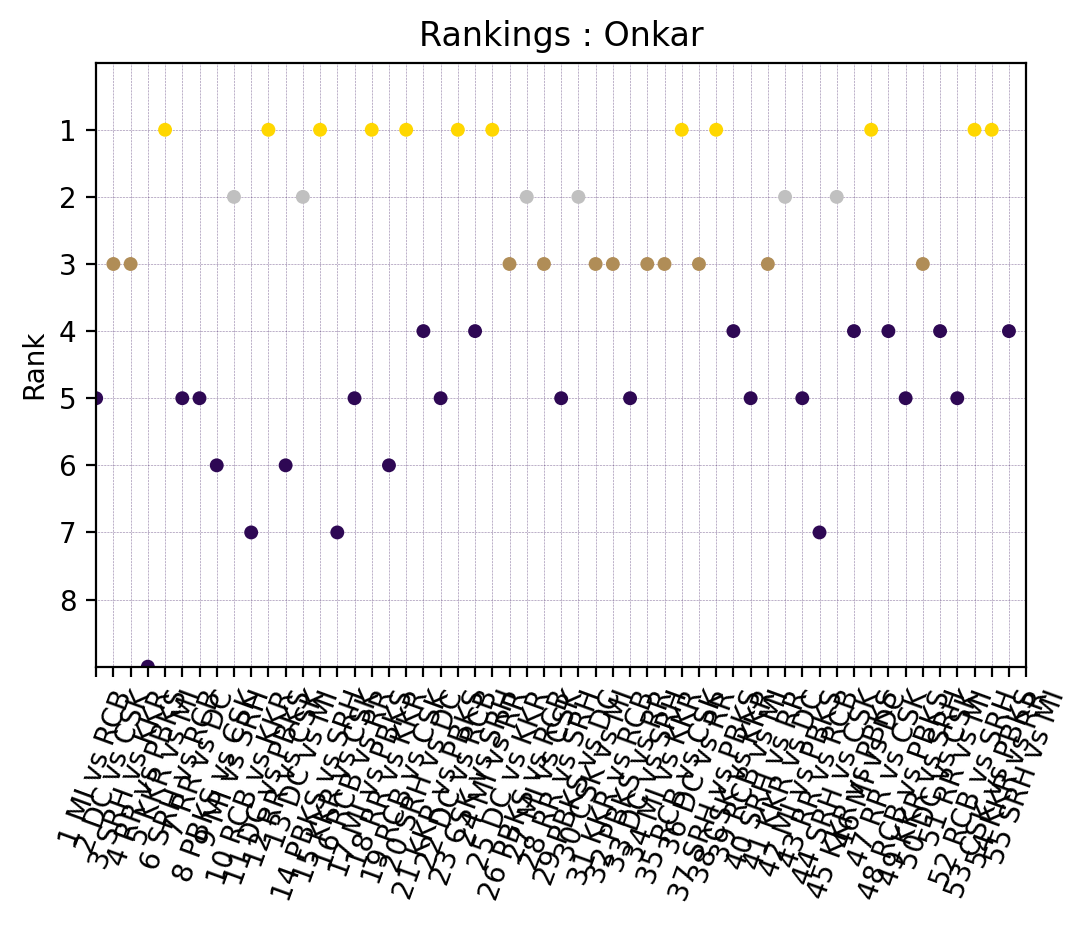
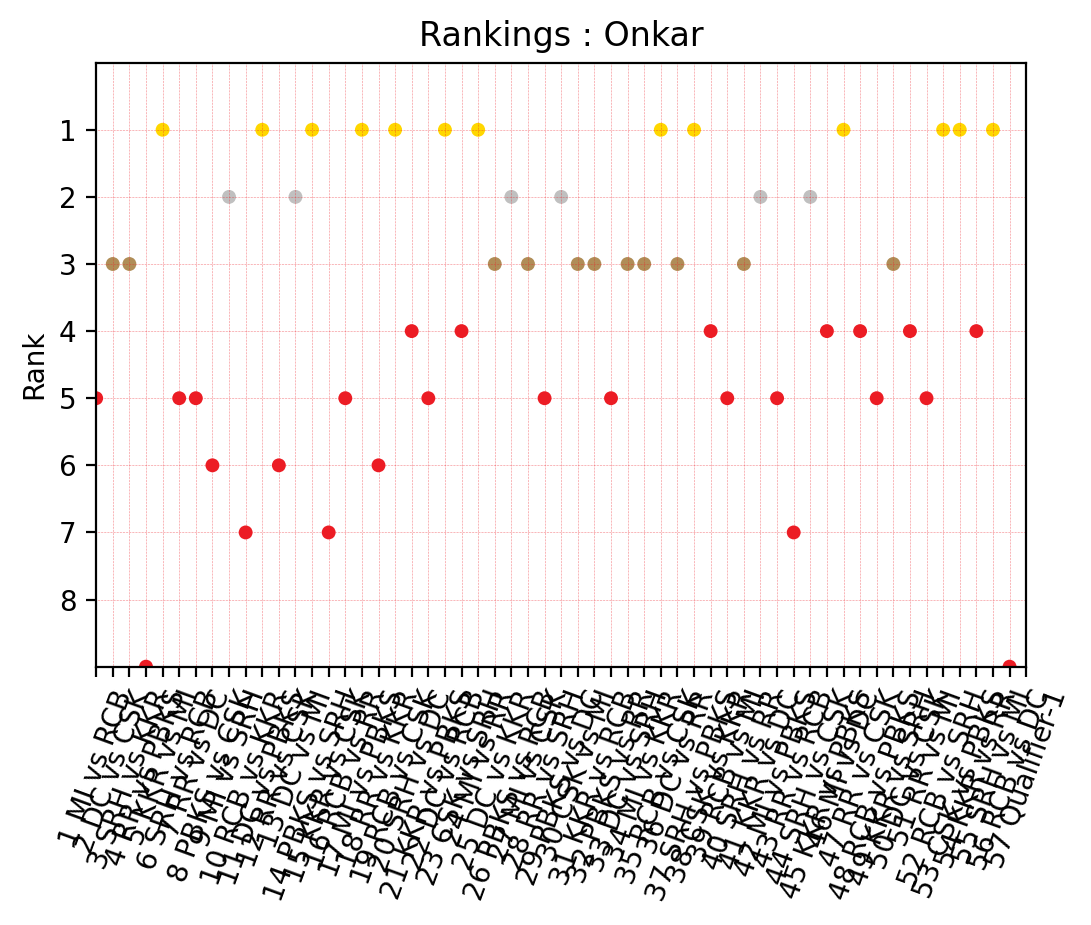
Add files via upload

Changed region(s): [[0.0624, 0.0908, 0.967, 0.9686], [0.3743, 0.0303, 0.5303, 0.0605], [0.5615, 0.0303, 0.655, 0.0605]]

diff --git a/index.html b/index.html
@@ -24,11 +24,11 @@ body {
 
 <body>
 
-<!-- <h1 style="color:#2e0854;text-align:center">Vivo IPL 2021</h1> -->
-<!-- <h1 style="color:#2e0854;text-align:center;margin-bottom:2cm">Dashboard for मॉडर्नचे  जुगारी</h1> -->
+<!-- <h1 style="color:#ec1c24;text-align:center">Vivo IPL 2021</h1> -->
+<!-- <h1 style="color:#ec1c24;text-align:center;margin-bottom:2cm">Dashboard for मॉडर्नचे  जुगारी</h1> -->
 
-<h1 style="color:#2e0854;text-align:center"> </h1>
-<h1 style="color:#2e0854;text-align:center;margin-bottom:2cm"> </h1>
+<h1 style="color:#ec1c24;text-align:center"> </h1>
+<h1 style="color:#ec1c24;text-align:center;margin-bottom:2cm"> </h1>
 
 <audio id="ID001" source src="track1.mp3"></audio><button onclick="playAudio('ID001')" type="button"><img src="play_button.jpg" alt="Play" width="40" height="40"></button>
 <script>
@@ -38,8 +38,8 @@ function playAudio(audio_element) {
 }
 </script>
 
-<!-- <h2 style="color:#2e0854;text-align:center"><u>Rankings : Graphs</u></h2> -->
-<h2 style="color:#2e0854;text-align:center"><u> </u></h2>
+<!-- <h2 style="color:#ec1c24;text-align:center"><u>Rankings : Graphs</u></h2> -->
+<h2 style="color:#ec1c24;text-align:center"><u> </u></h2>
 
 <img src="rank_plot-Abhishek.png" alt="rank_plot-Abhishek" width="600" height="507">
 <img src="rank_plot-Anand.png" alt="rank_plot-Anand" width="600" height="507">
@@ -52,8 +52,8 @@ function playAudio(audio_element) {
 
 <p style="margin-top:3cm"></p>
 
-<!-- <h2 style="color:#2e0854;text-align:center"><u>Winner Predictions : Graphs</u></h2> -->
-<h2 style="color:#2e0854;text-align:center"><u> </u></h2>
+<!-- <h2 style="color:#ec1c24;text-align:center"><u>Winner Predictions : Graphs</u></h2> -->
+<h2 style="color:#ec1c24;text-align:center"><u> </u></h2>
 
 <img src="win_predict_plot-Abhishek.png" alt="win_predict_plot-Abhishek" width="600" height="507">
 <img src="win_predict_plot-Anand.png" alt="win_predict_plot-Anand" width="600" height="507">
@@ -68,8 +68,8 @@ function playAudio(audio_element) {
 
 <p style="margin-top:3cm"></p>
 
-<!-- <h2 style="color:#2e0854;text-align:center"><u>Bar Charts</u></h2> -->
-<h2 style="color:#2e0854;text-align:center"><u> </u></h2>
+<!-- <h2 style="color:#ec1c24;text-align:center"><u>Bar Charts</u></h2> -->
+<h2 style="color:#ec1c24;text-align:center"><u> </u></h2>
 
 <img src="podium_bar.png" alt="podium_bar" width="600" height="400">
 <img src="win_predict_bar.png" alt="win_predict_bar" width="600" height="400">
